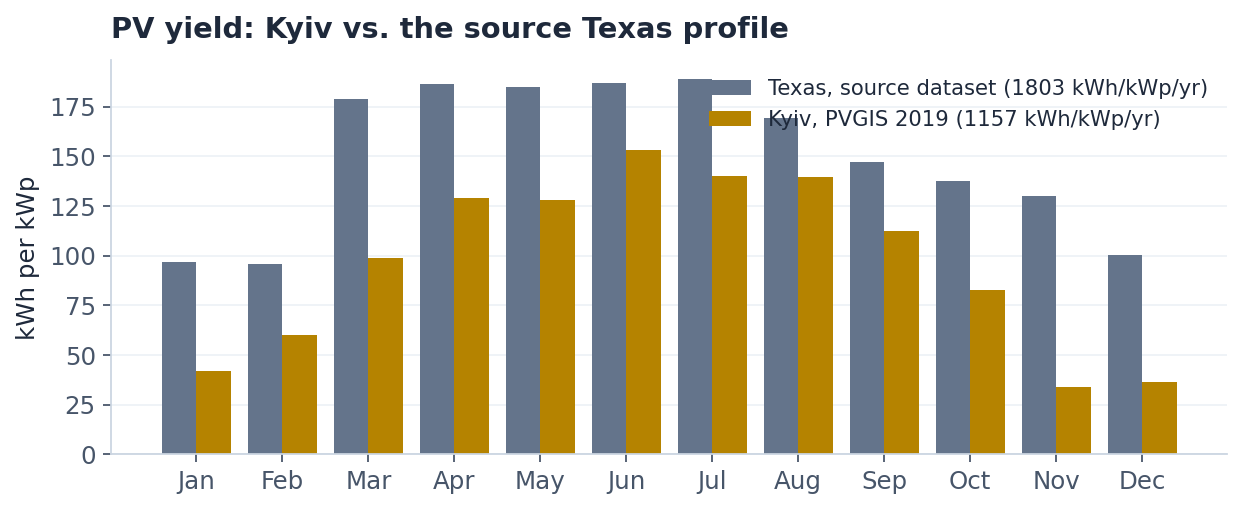
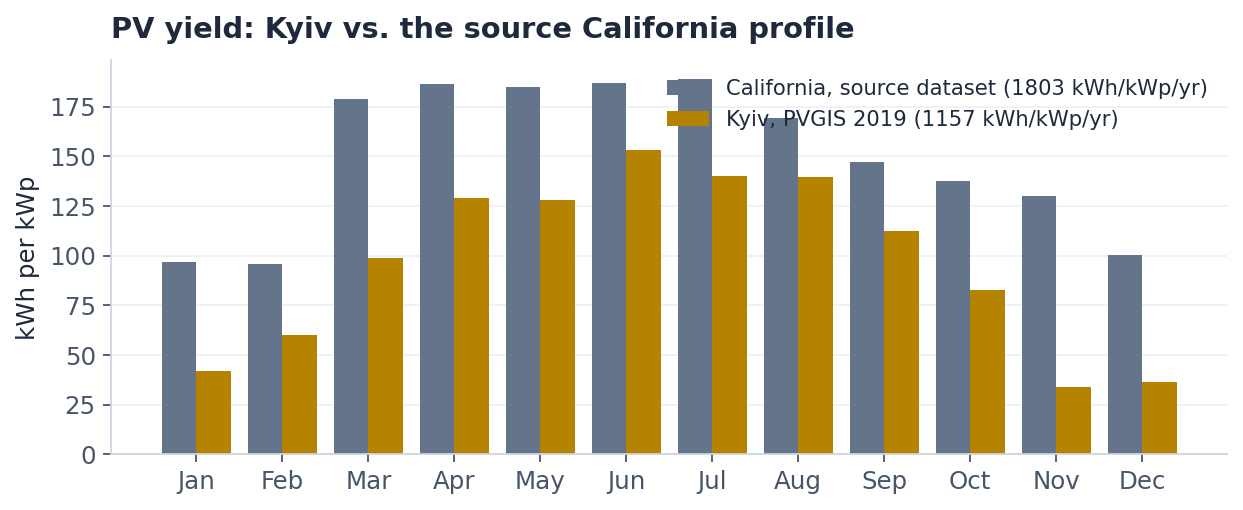
Correct source-profile provenance: CityLearn 2022 is Fontana, California
The 17 buildings are the Sierra Crest zero-net-energy community in Fontana,
CA (not Travis County, TX, which is a different CityLearn dataset). README,
generator docstring and figure labels updated.

Changed region(s): [[0.5197, 0.1471, 0.9783, 0.2647], [0.4586, 0.0294, 0.7031, 0.0882]]

diff --git a/scripts/make_figures.py b/scripts/make_figures.py
@@ -103,7 +103,7 @@ def tariff_profile() -> None:
 
 
 def pv_comparison() -> None:
-    """Kyiv (PVGIS) vs the source Texas profile, by month."""
+    """Kyiv (PVGIS) vs the source California profile, by month."""
     df = pd.read_csv(DATA / "Building_1.csv")
     kyiv = df.groupby("month").solar_generation.sum() / 1000
     from citylearn.data import DataSet
@@ -117,12 +117,12 @@ def pv_comparison() -> None:
     x = np.arange(12)
     fig, ax = plt.subplots(figsize=(9, 3.2))
     ax.bar(x - 0.2, [texas[m] for m in order], width=0.4, color=SLATE,
-           label=f"Texas, source dataset ({texas.sum():.0f} kWh/kWp/yr)")
+           label=f"California, source dataset ({texas.sum():.0f} kWh/kWp/yr)")
     ax.bar(x + 0.2, [kyiv[m] for m in order], width=0.4, color=AMBER,
            label=f"Kyiv, PVGIS 2019 ({kyiv.sum():.0f} kWh/kWp/yr)")
     ax.set_xticks(x, labels)
     ax.set_ylabel("kWh per kWp")
-    ax.set_title("PV yield: Kyiv vs. the source Texas profile",
+    ax.set_title("PV yield: Kyiv vs. the source California profile",
                  fontsize=13, loc="left", pad=10, color=INK, fontweight="bold")
     ax.legend(frameon=False, fontsize=9.5)
     _clean(ax)

diff --git a/scripts/build_dataset.py b/scripts/build_dataset.py
@@ -11,8 +11,8 @@ adaptations:
 * **PV generation** (``--pv kyiv``, default) — the ``solar_generation`` column
   of every building is replaced with a real Kyiv year from PVGIS (SARAH2,
   2019, 1 kWp, 35 deg tilt, south, 14% system loss): ~1157 kWh/kWp/year
-  against ~1600 for the source Texas profile, with a 4.5x winter dip.
-  ``--pv texas`` keeps the original profile (climate as a free variable).
+  against ~1600 for the source California profile, with a 4.5x winter dip.
+  ``--pv texas`` keeps the original profile (climate as a free variable; the flag name is historical).
 * **Outages** (``--outages``, default ``none``) — see ``make_outage_schedules.py``.
 
 Alignment notes

diff --git a/README.md b/README.md
@@ -5,7 +5,7 @@ energy context: real residential tariffs, real market prices, Kyiv solar, and
 rolling blackouts.**
 
 Built on the measured building load profiles of [CityLearn 2022](https://github.com/intelligent-environments-lab/CityLearn)
-(17 residential buildings, 8760 hourly steps, 6.4 kWh battery + 5 kW inverter each),
+(Sierra Crest, Fontana, California — 17 zero-net-energy homes, 8760 hourly steps, 6.4 kWh battery + 5 kW inverter each),
 with every price- and energy-side signal replaced by Ukrainian data. Drop-in
 compatible with any code that runs CityLearn ≥ 2.1 — point `schema` at the dataset
 and your existing forecaster, MPC, or RL agent runs against Ukrainian conditions.
@@ -25,9 +25,9 @@ at midday when solar floods the grid, while the regulated tariff (amber) ignores
 | **Market prices** | [Market Operator](https://www.oree.com.ua) day-ahead market, full year 2024 | 8760 hourly prices, 0.01–9.00 UAH/kWh |
 | **PV generation** | [PVGIS](https://joint-research-centre.ec.europa.eu/photovoltaic-geographical-information-system-pvgis_en) SARAH2, Kyiv 2019 | 1157 kWh/kWp/yr, 4.5× winter dip |
 | **Blackouts** | stylised rolling-blackout schedule (4h off / 4h on, Nov–Mar) | plus a stochastic fault model |
-| Building load, weather, carbon | CityLearn 2022 (Texas) | unchanged — see Limitations |
+| Building load, weather, carbon | CityLearn 2022 (Fontana, California) | unchanged — see Limitations |
 
-![PV yield: Kyiv vs Texas](assets/pv_comparison.png)
+![PV yield: Kyiv vs California](assets/pv_comparison.png)
 
 ## Why this dataset exists
 
@@ -152,7 +152,7 @@ examples/quickstart.py        baseline vs. simple tariff-aware rule, plain CityL
 
 ## Limitations
 
-- **Building load profiles are Texas measurements** — consumption habits and the
+- **Building load profiles are Californian measurements** (Sierra Crest, Fontana) — consumption habits and the
   heating/cooling mix differ from Ukraine. Prices, solar, and blackouts are the
   Ukrainian components; load is not. No open hourly Ukrainian building dataset
   exists to replace it.
